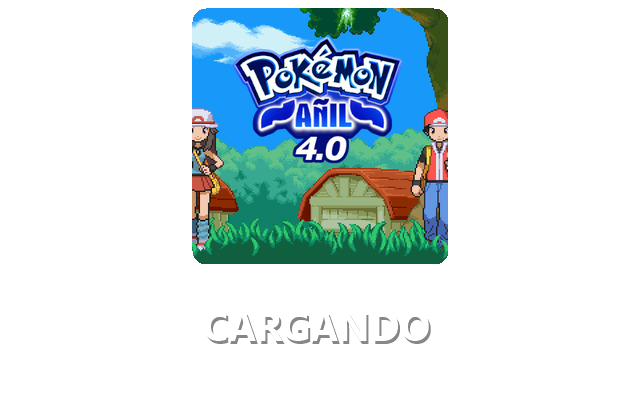
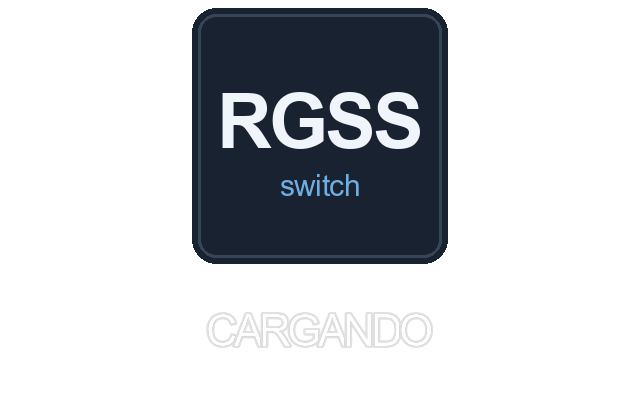
La pantalla de carga anunciaba Anil en los ocho juegos
espera.png -la imagen de CARGANDO que se dibuja antes de que exista
Graphics, empotrada en el binario porque en ese momento PhysFS no ha
montado nada- era la pantalla de titulo de Pokemon Anil 4.0, que era el
unico juego que habia. Empotrada en el binario, la ensenaban los ocho:
Opalo arrancaba anunciando Anil. Y de paso metia arte de un tercero
dentro de algo que se distribuye bajo la GPL.

Ahora es la marca DEL MOTOR: la misma cara que lleva el icono de la
consola (nsp/icono.jpg), con sus colores y sus medidas. La geometria es
la de antes -lienzo 640x400, insignia de 256 en (192,8), rotulo de 227 px
con base en y=312-, medida del PNG viejo a proposito para no tocar ni una
linea del dibujado de nx_espera.cpp.

La imagen se rehace con nsp/hacer-espera.py, que no llama el Makefile:
existe para que el dia que cambie la marca se toque un guion y no un PNG
a mano sin saber de donde salieron sus medidas. La insignia se dibuja en
vez de pegar el icono porque el JPEG lleva su marco cuadrado y al
redondearle las esquinas quedaba el resto del trazo en ellas.

Comprobado encendido, no solo compilado: Opalo en el emulador,
[espera] pantalla de carga lista a los 3830 ms y retirada a los 4834, la
captura en docs/capturas/pantalla-carga-motor.png. El .nro adelgaza
139 KB, que es lo que pesaba de mas la imagen anterior.

Changed region(s): [[0.2812, 0.0, 0.7188, 0.66], [0.3125, 0.78, 0.6875, 0.87]]

diff --git a/nsp/hacer-espera.py b/nsp/hacer-espera.py
@@ -1,0 +1,104 @@
+# Genera mkxp-z-nx/nx/espera.png: la insignia del motor y el rotulo CARGANDO.
+#
+#     python nsp/hacer-espera.py      (pide Pillow; el Makefile NO lo llama)
+#
+# El PNG esta en el repositorio ya hecho y el Makefile solo lo convierte a
+# generated/espera.png.xxd para empotrarlo en el binario. Esto existe para que
+# la imagen se pueda REHACER: si manana cambia la marca, se toca aqui y no se
+# retoca un PNG a mano sin saber de donde salieron sus medidas.
+#
+# La geometria es la MISMA que la del PNG anterior -el de Anil-, para no tocar
+# nx_espera.cpp, y sale de medir aquel fichero, no de inventarla:
+#
+#   lienzo 640x400 RGBA, fondo transparente (el azul lo pone glClearColor)
+#   insignia 256x256 en (192,8), esquinas redondeadas de radio 24
+#   CARGANDO en blanco con halo al 47%, caja de 227 px de ancho, arriba en y=312
+#
+# La insignia se DIBUJA, no se pega desde nsp/icono.jpg: el icono lleva su marco
+# cuadrado y al recortarle las esquinas quedaba el resto del trazo en ellas. Los
+# colores y las medidas de dentro se muestrearon de ese icono para que las dos
+# caras del motor -la del menu de la consola y la de la pantalla de carga- sean
+# la misma.
+
+import os
+
+from PIL import Image, ImageDraw, ImageFont
+
+RAIZ = os.path.dirname(os.path.dirname(os.path.abspath(__file__)))
+SALIDA = os.path.join(RAIZ, "mkxp-z-nx", "nx", "espera.png")
+
+W, H = 640, 400
+BADGE_X, BADGE_Y, BADGE, RADIO = 192, 8, 256, 24
+
+FONDO = (25, 34, 49, 255)      # el fondo del icono
+MARCO = (52, 70, 86, 255)      # su linea, 3 px a 6 px del borde
+CLARO = (240, 245, 252, 255)   # RGSS
+AZUL = (110, 175, 225, 255)    # switch
+
+# Medido en nsp/icono.jpg, en coordenadas de la insignia de 256:
+RGSS_ALTO, RGSS_ANCHO, RGSS_Y = 57, 207, 84
+SW_ALTO, SW_ANCHO, SW_Y = 22, 81, 166
+
+TEXTO, TEXTO_Y, TEXTO_ALTO, TEXTO_ANCHO = "CARGANDO", 312, 32, 227
+HALO = 120  # alpha del contorno, medido en el PNG anterior
+
+NEGRITA = "C:/Windows/Fonts/arialbd.ttf"
+NORMAL = "C:/Windows/Fonts/arial.ttf"
+
+
+def cuerpo_para(ruta, muestra, alto):
+    """El cuerpo de fuente que da exactamente ese alto de caja para `muestra`."""
+    c = alto
+    while True:
+        f = ImageFont.truetype(ruta, c)
+        izq, arr, der, aba = f.getbbox(muestra)
+        if aba - arr >= alto:
+            return f
+        c += 1
+
+
+def escribe(pincel, ruta, texto, alto, ancho, cx, y, color):
+    """Centra `texto` en cx con ese alto de caja, estirando el espaciado hasta
+    `ancho`. Devuelve nada: dibuja letra a letra porque el ancho manda."""
+    f = cuerpo_para(ruta, texto, alto)
+    anchos = [f.getlength(c) for c in texto]
+    paso = (ancho - sum(anchos)) / max(len(texto) - 1, 1)
+    x = cx - ancho / 2.0
+    arr = f.getbbox(texto)[1]
+    for i, c in enumerate(texto):
+        pincel.text((x, y - arr), c, font=f, fill=color, anchor="la")
+        x += anchos[i] + paso
+
+
+lienzo = Image.new("RGBA", (W, H), (0, 0, 0, 0))
+
+# --- la insignia --------------------------------------------------------
+ins = Image.new("RGBA", (BADGE, BADGE), (0, 0, 0, 0))
+p = ImageDraw.Draw(ins)
+p.rounded_rectangle([0, 0, BADGE - 1, BADGE - 1], radius=RADIO, fill=FONDO)
+p.rounded_rectangle([6, 6, BADGE - 7, BADGE - 7], radius=RADIO - 6,
+                    outline=MARCO, width=3)
+escribe(p, NEGRITA, "RGSS", RGSS_ALTO, RGSS_ANCHO, BADGE / 2.0, RGSS_Y, CLARO)
+escribe(p, NORMAL, "switch", SW_ALTO, SW_ANCHO, BADGE / 2.0, SW_Y, AZUL)
+lienzo.paste(ins, (BADGE_X, BADGE_Y), ins)
+
+# --- el rotulo ----------------------------------------------------------
+# En su propia capa para poder colocarlo por su caja exacta: el contorno se
+# sale de las metricas de la fuente y desplazaria el centro.
+capa = Image.new("RGBA", (TEXTO_ANCHO + 40, TEXTO_ALTO + 40), (0, 0, 0, 0))
+p = ImageDraw.Draw(capa)
+f = cuerpo_para(NORMAL, TEXTO, TEXTO_ALTO)
+anchos = [f.getlength(c) for c in TEXTO]
+paso = (TEXTO_ANCHO - sum(anchos)) / (len(TEXTO) - 1)
+x = 20.0
+for i, c in enumerate(TEXTO):
+    p.text((x, 20), c, font=f, fill=(255, 255, 255, 255), anchor="lt",
+           stroke_width=2, stroke_fill=(255, 255, 255, HALO))
+    x += anchos[i] + (paso if i < len(TEXTO) - 1 else 0)
+
+caja = capa.split()[3].getbbox()
+capa = capa.crop(caja)
+lienzo.paste(capa, ((W - capa.width) // 2, TEXTO_Y), capa)
+
+lienzo.save(SALIDA)
+print(SALIDA, lienzo.size, "rotulo", capa.size)

diff --git a/mkxp-z-nx/nx/nx_espera.cpp b/mkxp-z-nx/nx/nx_espera.cpp
@@ -8,7 +8,7 @@
  * que hacer. El registro decia desde el principio que el arranque iba bien; el
  * problema es que el jugador no lee registros.
  *
- * Asi que se dibuja algo. El logo del juego, la palabra CARGANDO y una barra
+ * Asi que se dibuja algo. La marca del motor, la palabra CARGANDO y una barra
  * que avanza en cada hito del arranque:
  *
  *   0,15  contexto GL creado (aqui empieza a haber donde dibujar)
@@ -217,8 +217,15 @@ void nx_espera_abre(SDL_Window *v)
     gl.VertexAttribPointer(1, 2, GL_FLOAT, GL_FALSE, 4 * sizeof(float),
                            (const void *)(2 * sizeof(float)));
 
-    /* El logo. Va empotrado en el binario porque esto se dibuja ANTES de que
-     * PhysFS monte nada: en ese momento no se puede leer un fichero del juego. */
+    /* La marca. Va empotrada en el binario porque esto se dibuja ANTES de que
+     * PhysFS monte nada: en ese momento no se puede leer un fichero del juego.
+     *
+     * Y por eso mismo es la marca DEL MOTOR y no la del juego. Hasta ahora
+     * espera.png era la pantalla de titulo de Pokemon Anil 4.0, que era el
+     * unico juego que habia; empotrada en el binario, la ensenaban los ocho
+     * -Opalo arrancaba anunciando Anil-, y ademas metia arte de un tercero
+     * dentro de algo que se distribuye bajo la GPL. Ahora es la misma cara que
+     * lleva el icono de la consola (nsp/icono.jpg), dibujada con sus colores. */
     {
         SDL_RWops *rw = SDL_RWFromConstMem(nx_espera_png, (int)nx_espera_png_len);
         SDL_Surface *bruta = rw ? IMG_Load_RW(rw, 1) : 0;

diff --git a/LICENCIAS.md b/LICENCIAS.md
@@ -18,6 +18,7 @@ Cubre todo lo que se escribió aquí:
 | La biblioteca de shims y su catálogo, salvo los dos ficheros de la tabla de §2.1 | `runtime/shims/catalogo.json`, `runtime/shims/discord.rb`, `poke-api-v2.rb`, `rubygems.rb`, `nx-rutas-windows.rb`, `nx-marshal-huerfano.rb`, `nx-msgbox.rb` |
 | La configuración del motor para la consola | `runtime/mkxp.json` |
 | El banco de pruebas del intérprete | `hello-ruby-nx/` |
+| La marca del motor: el icono de la consola y la pantalla de carga | `nsp/icono.jpg`, `nsp/hacer-espera.py`, `mkxp-z-nx/nx/espera.png` |
 | Los guiones de compilación, empaquetado y depuración | `*.sh`, `*.py`, `*.ps1`, `nsp/` |
 | La bitácora de ingeniería | `README.md` |
 
